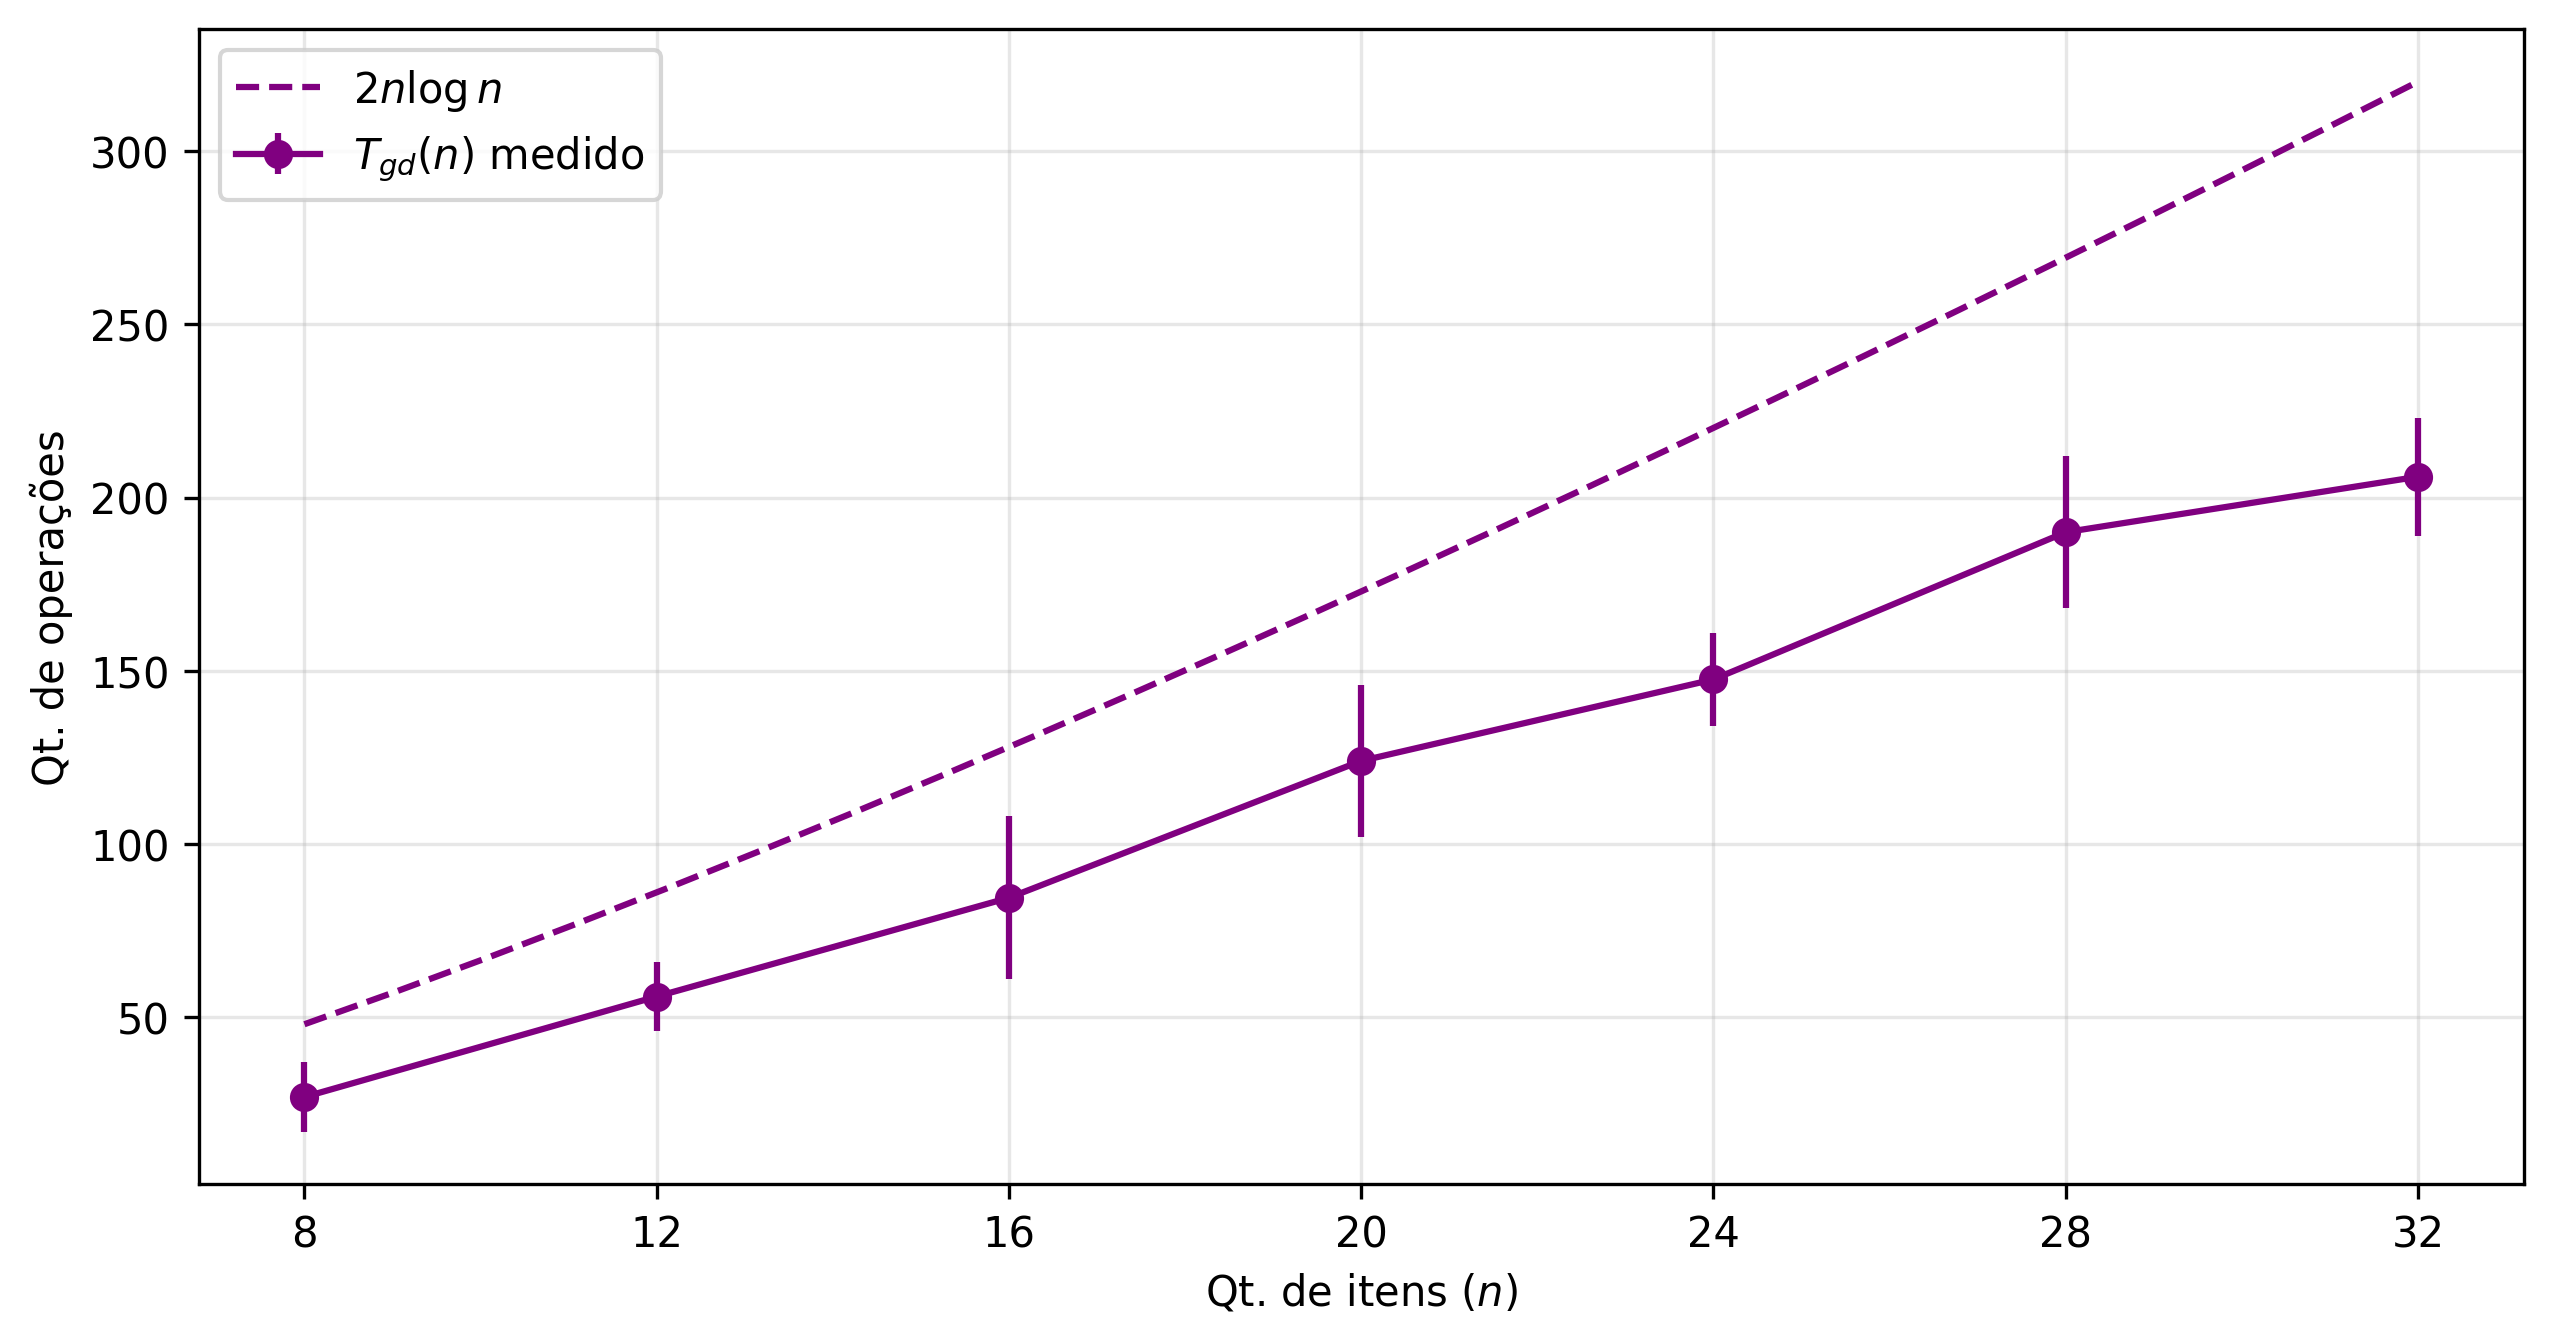
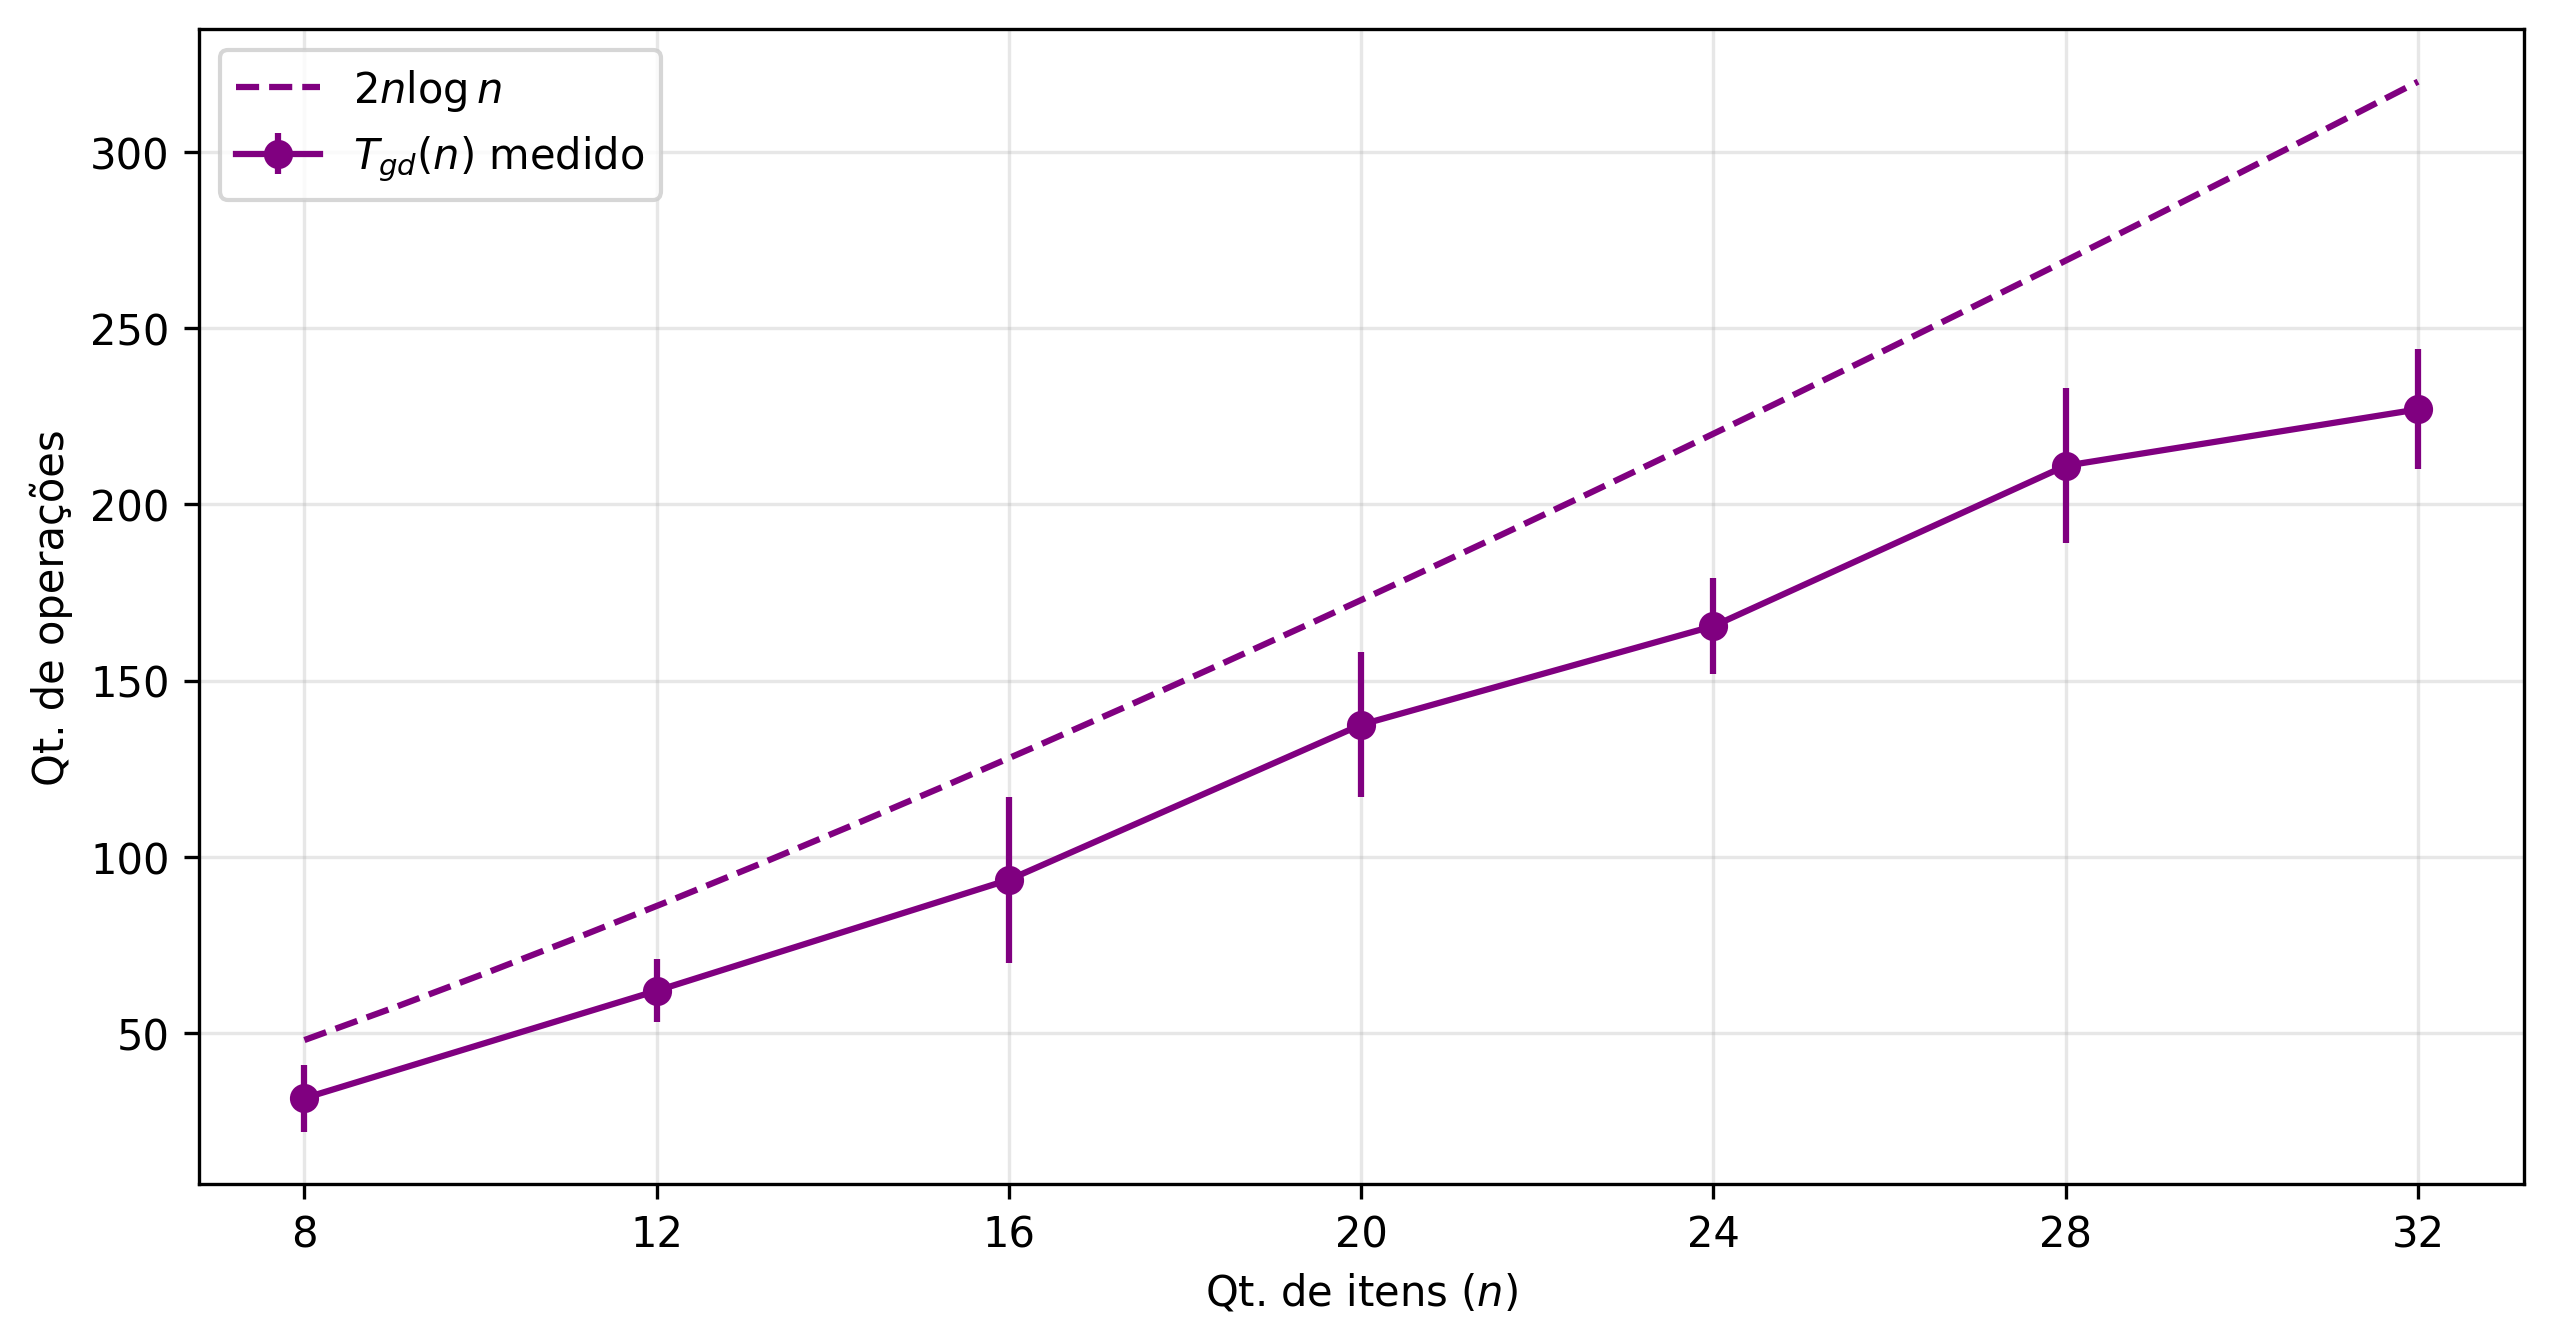
Improved greedy

diff --git a/src/test.cpp b/src/test.cpp
@@ -72,7 +72,7 @@ int Test::run_multi(std::string &paradigm, std::string &fp_in, std::string &fp_o
     std::ofstream f_out(fp_out);
     if (not f_out.is_open())
         return 1;
-    f_out << "paradigm,w_max,n_items,answer,op\n";
+    f_out << "paradigm,n_items,w_max,answer,op\n";
     try {
         auto fn = Test::fns.at(paradigm);
         Test::run_paradigm(paradigm, fn, fp_in, f_out);

diff --git a/script/plot.py b/script/plot.py
@@ -106,6 +106,7 @@ def plot_gd(df: pd.DataFrame, out_fp: str):
     for p, color in zip(ps, colors):
         df_p = df[df.paradigm == p]
         df_p = df_p.groupby("n_items")["op"].agg(["min", "median", "max"])
+        print(df_p)
         x = df_p.index
         yerr = (df_p["max"] - df_p["min"]) / 2
         y = df_p["min"] + yerr

diff --git a/src/greedy.cpp b/src/greedy.cpp
@@ -10,8 +10,7 @@ int gd::knapsack(std::vector<Item> &items, int w_max) {
     for (Item it : its) {
 ++op;   if (w + it.weight <= w_max) {
 ++op;       w += it.weight, v += it.value;
-        } else
-            break;
+        }
     }
     return v;
 }
